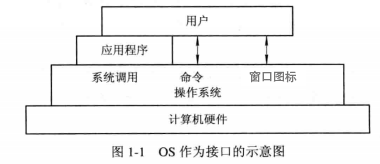
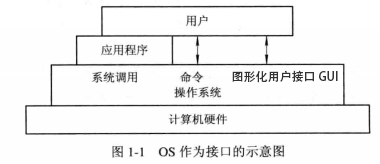
计算机

Changed region(s): [[0.6079, 0.4268, 0.8974, 0.5183]]

diff --git a/articles/计算机/七、操作系统接口.md b/articles/计算机/七、操作系统接口.md
@@ -1,10 +1,12 @@
-# 八、操作系统接口
+# 七、操作系统接口
 
 [[_TOC_]]
 
 ## 1. 操作系统接口
 
-操作系统就是用户与计算机硬件之间的接口
+操作系统作为计算机系统资源的管理者，对计算机系统的所有硬件和软件资源进行统一的管理和操纵，无论是操作系统内的软件，还是应用程序，凡是涉及到系统资源的有关操作，都必须向操作系统提出服务请求
+
+操作系统提供了三类接口，供用户和应用程序更方便地使用计算机，操作计算机系统的各种资源
 
 ### (1) 系统调用 ( 应用程序 )
 
@@ -20,14 +22,106 @@
 
 用户在终端或控制台键入一条命令后，命令解释程序立即对该命令加以解释执行，完成指定功能后又返回到终端或控制台，等待用户键入下一条命令，这样用户便可以通过先后键入不同命令的方式控制应用程序的执行
 
-### (3) 窗口图标 ( 用户 )
+### (3) 图形化用户接口 GUI ( 用户 )
 
-由于命令不便于用户记忆和使用，因此诞生了图形化的操作界面，即窗口图标
+由于命令不便于用户记忆和使用，因此诞生了图形化用户接口 GUI
 
-窗口图标采用了图形化的操作界面，用容易识别的各种图标来表示各项应用程序和文件，用户可通过鼠标点击等方式来快捷方便地完成对应用程序和文件的操作
+GUI 采用了图形化的操作界面，将窗口、图标、菜单、鼠标和面向对象技术集成到一起，引入形象的各种图标，将操作系统的各项功能、各种应用程序、各种文件直观逼真的表示出来，形成一个图文并茂的视窗操作环境
+
+有了 GUI，可以直接在系统桌面上显示各种常用图标，每个图标对应一个应用程序，用户只需双击图标就可以启动应用程序 ( 无需键入命令 )，用户还可以通过选择窗口、菜单、对话框、滚动条，完成对应用程序的各种控制和操作
 
 ![用户与计算机硬件之间的接口](../../images/计算机/操作系统/用户与计算机硬件之间的接口.png)
 
-## 2. 
+## 2. 命令
 
-①②③④⑤⑥⑦⑧⑨⑩
+### (1) 命令语言
+
+命令由一组命令动词和参数组成，具有规定的词法、语法、语义、表达形式，用户在终端键盘上以`命令行`的形式输入并提交给操作系统
+
+命令语言就是以命令为基本单位，指示操作系统完成特定的功能，诸多命令组成了命令集，完整的命令集包含了操作系统提供给用户使用的全部功能
+
+#### ① 命令行形式
+
+命令行形式以`行`为单位，输入和显示不同的命令，以`回车符`作为一个命令的结束标记
+
+命令行方式采用`间断式的串行执行方式`，前一个命令执行结束并且操作系统发出新的命令输入提示符，用户才能输入下一个命令
+
+#### ② 批命令形式
+
+实际使用过程中，经常会遇到对多条命令的连续使用，对若干命令的重复使用，对不同命令选择性使用的情况，因此操作系统都支持批命令形式
+
+批命令形式允许用户预先把一系列的命令组织在`批命令文件 .bat` 中，实现一次建立，多次执行，既节省了时间，减少了出错概率，又方便了用户
+
+## 3. Shell 命令语言
+
+### (1) Shell 的定义
+
+Linux 系统中的 Shell 是命令语言、命令解释程序、程序设计语言的统称
+
+**① 作为命令语言**：Shell 拥有自己的 Shell 命令集，可以为用户提供操作系统接口，Shell 提供了多种不同形式的命令，并且`允许一行有多条命令`
+
+**② 作为命令解释程序**：Shell 可以对输入的命令解释执行
+
+**③ 作为程序设计语言**：Shell 拥有绝大多数高级语言中能见到的程序元素，例如变量、数组、函数、程序控制结构等等
+
+### (2) Shell 命令语言
+
+#### ① 进入与退出系统
+
+#### ② 系统询问命令
+
+```javascript
+who  //询问当前用户
+date //询问当前日期时间
+pwd  //询问目录路径名
+```
+
+#### ③ 文件操作命令
+
+```javascript
+cp  //复制指定文件
+rm  //删除指定文件
+mv  //重命名指定文件
+cat //显示指定文件内容
+```
+
+#### ④ 文件目录操作命令
+
+```javascript
+md //新建目录
+rd //删除指定目录
+cd //进入指定目录
+```
+
+#### ⑤ 重定向命令
+
+```javascript
+< //输入重定向
+> //输入重定向
+```
+
+#### ⑥ 管道命令
+
+```javascript
+| //前一条命令的输出作为后一条命令的输入
+```
+
+#### ⑦ 通信命令
+
+```javascript
+write //对话通信,使当前用户与系统中的其他用户进行联机通信
+mesg  //允许或拒绝接收消息,n表示拒绝接收消息,y表示允许接收消息
+mail  //信箱通信
+```
+
+#### ⑧ 后台命令
+
+```javascript
+& //当前命令放在后台执行
+```
+
+### (3) Shell 命令解释程序
+
+Shell 是操作系统的最外层，也称为`外壳`，是用户及应用程序和操作系统的接口，Shell 对从标准输入和文件中读入的命令进行解释执行
+
+![Shell执行过程](../../images/计算机/操作系统接口/Shell执行过程.png)

diff --git a/README.md b/README.md
@@ -15,6 +15,8 @@ JS 系列之函数式编程 进行中......
 
 JS 系列之设计模式 进行中......
 
+计算机系列 进行中......
+
 计算机网络系列之 TCP/IP 协议群已完结
 
 计算机网络系列之 HTTP 协议已完结
@@ -61,7 +63,7 @@ JS 系列之设计模式 进行中......
 1. [语法](https://github.com/yuyuyuzhang/Blog/blob/master/articles/JS/ES5/%E4%B8%80%E3%80%81%E8%AF%AD%E6%B3%95.md)
 2. [错误处理机制](https://github.com/yuyuyuzhang/Blog/blob/master/articles/JS/ES5/%E4%BA%8C%E3%80%81%E9%94%99%E8%AF%AF%E5%A4%84%E7%90%86%E6%9C%BA%E5%88%B6.md)
 3. [数据类型](https://github.com/yuyuyuzhang/Blog/blob/master/articles/JS/ES5/%E4%B8%89%E3%80%81%E6%95%B0%E6%8D%AE%E7%B1%BB%E5%9E%8B.md)
-<!-- 4. [内存](https://github.com/yuyuyuzhang/Blog/blob/master/articles/JS/ES5/%E5%9B%9B%E3%80%81%E5%86%85%E5%AD%98.md) -->
+4. [内存](https://github.com/yuyuyuzhang/Blog/blob/master/articles/JS/ES5/%E5%9B%9B%E3%80%81%E5%86%85%E5%AD%98.md)
 5. [变量](https://github.com/yuyuyuzhang/Blog/blob/master/articles/JS/ES5/%E4%BA%94%E3%80%81%E5%8F%98%E9%87%8F.md)
 6. [函数](https://github.com/yuyuyuzhang/Blog/blob/master/articles/JS/ES5/%E5%85%AD%E3%80%81%E5%87%BD%E6%95%B0.md)
 7. [正则](https://github.com/yuyuyuzhang/Blog/blob/master/articles/JS/ES5/%E4%B8%83%E3%80%81%E6%AD%A3%E5%88%99.md)
@@ -73,13 +75,13 @@ JS 系列之设计模式 进行中......
 1. [数据类型](https://github.com/yuyuyuzhang/Blog/blob/master/articles/JS/ES6/%E4%B8%80%E3%80%81%E6%95%B0%E6%8D%AE%E7%B1%BB%E5%9E%8B.md)
 2. [解构赋值](https://github.com/yuyuyuzhang/Blog/blob/master/articles/JS/ES6/%E4%BA%8C%E3%80%81%E8%A7%A3%E6%9E%84%E8%B5%8B%E5%80%BC.md)
 3. [遍历器](https://github.com/yuyuyuzhang/Blog/blob/master/articles/JS/ES6/%E4%B8%89%E3%80%81%E9%81%8D%E5%8E%86%E5%99%A8.md)
-<!-- 4. [内存](https://github.com/yuyuyuzhang/Blog/blob/master/articles/JS/ES6/%E5%9B%9B%E3%80%81%E5%86%85%E5%AD%98.md) -->
+4. [内存](https://github.com/yuyuyuzhang/Blog/blob/master/articles/JS/ES6/%E5%9B%9B%E3%80%81%E5%86%85%E5%AD%98.md)
 5. [变量](https://github.com/yuyuyuzhang/Blog/blob/master/articles/JS/ES6/%E4%BA%94%E3%80%81%E5%8F%98%E9%87%8F.md)
 6. [函数](https://github.com/yuyuyuzhang/Blog/blob/master/articles/JS/ES6/%E5%85%AD%E3%80%81%E5%87%BD%E6%95%B0.md)
 7. [正则](https://github.com/yuyuyuzhang/Blog/blob/master/articles/JS/ES6/%E4%B8%83%E3%80%81%E6%AD%A3%E5%88%99.md)
 8. [元编程](https://github.com/yuyuyuzhang/Blog/blob/master/articles/JS/ES6/%E5%85%AB%E3%80%81%E5%85%83%E7%BC%96%E7%A8%8B.md)
 9. [类](https://github.com/yuyuyuzhang/Blog/blob/master/articles/JS/ES6/%E4%B9%9D%E3%80%81%E7%B1%BB.md)
-10. [异步](https://github.com/yuyuyuzhang/Blog/blob/master/articles/JS/ES6/%E5%8D%81%E3%80%81%E5%BC%82%E6%AD%A5.md)
+<!-- 10. [异步](https://github.com/yuyuyuzhang/Blog/blob/master/articles/JS/ES6/%E5%8D%81%E3%80%81%E5%BC%82%E6%AD%A5.md) -->
 11. [模块](https://github.com/yuyuyuzhang/Blog/blob/master/articles/JS/ES6/%E5%8D%81%E4%B8%80%E3%80%81%E6%A8%A1%E5%9D%97.md)
 
 ## JS 系列之函数式编程
@@ -89,6 +91,18 @@ JS 系列之设计模式 进行中......
 3. [递归](https://github.com/yuyuyuzhang/Blog/blob/master/articles/JS/%E5%87%BD%E6%95%B0/%E4%B8%89%E3%80%81%E9%80%92%E5%BD%92.md)
 
 ## JS 系列之设计模式
+
+## 计算机系列
+
+1. [计算机组成]()
+2. [操作系统]()
+3. [CPU 管理]()
+4. [内存管理]()
+5. [IO 设备管理]()
+6. [文件管理]()
+7. [操作系统接口]()
+8. [应用程序]()
+9. [服务器]()
 
 ## 计算机网络系列之 TCP/IP 协议群
 
@@ -145,11 +159,6 @@ JS 系列之设计模式 进行中......
 5. [WebSocket](https://github.com/yuyuyuzhang/Blog/blob/master/articles/%E6%B5%8F%E8%A7%88%E5%99%A8/%E6%B5%8F%E8%A7%88%E5%99%A8%E9%80%9A%E4%BF%A1/%E4%BA%94%E3%80%81WebSocket.md)
 <!-- 6. [Nginx 代理服务器]() -->
 <!-- 7. [WebRTC]() -->
-
-## 服务器系列之计算机
-
-<!-- 1. [计算机组成](https://github.com/yuyuyuzhang/Blog/blob/master/articles/%E6%9C%8D%E5%8A%A1%E5%99%A8/%E8%AE%A1%E7%AE%97%E6%9C%BA/%E4%B8%80%E3%80%81%E8%AE%A1%E7%AE%97%E6%9C%BA%E7%BB%84%E6%88%90.md)
-2. [服务器](https://github.com/yuyuyuzhang/Blog/blob/master/articles/%E6%9C%8D%E5%8A%A1%E5%99%A8/%E8%AE%A1%E7%AE%97%E6%9C%BA/%E4%BA%8C%E3%80%81%E6%9C%8D%E5%8A%A1%E5%99%A8.md) -->
 
 ## 服务器系列之 node
 

diff --git a/articles/计算机/五、IO 设备管理.md b/articles/计算机/五、IO 设备管理.md
@@ -1,4 +1,4 @@
-# 六、IO 设备管理
+# 五、IO 设备管理
 
 [[_TOC_]]
 
@@ -139,11 +139,13 @@
 
 用户在终端或控制台键入一条命令后，命令解释程序立即对该命令加以解释执行，完成指定功能后又返回到终端或控制台，等待用户键入下一条命令，这样用户便可以通过先后键入不同命令的方式控制应用程序的执行
 
-#### ③ 窗口图标 ( 用户 )
+#### ③ 图形化用户接口 GUI ( 用户 )
 
-由于命令不便于用户记忆和使用，因此诞生了图形化的操作界面，即窗口图标
+由于命令不便于用户记忆和使用，因此诞生了图形化用户接口 GUI
 
-窗口图标采用了图形化的操作界面，用容易识别的各种图标来表示各项应用程序和文件，用户可通过鼠标点击等方式来快捷方便地完成对应用程序和文件的操作
+GUI 采用了图形化的操作界面，将窗口、图标、菜单、鼠标和面向对象技术集成到一起，引入形象的各种图标，将操作系统的各项功能、各种应用程序、各种文件直观逼真的表示出来，形成一个图文并茂的视窗操作环境
+
+有了 GUI，可以直接在系统桌面上显示各种常用图标，每个图标对应一个应用程序，用户只需双击图标就可以启动应用程序 ( 无需键入命令 )，用户还可以通过选择窗口、菜单、对话框、滚动条，完成对应用程序的各种控制和操作
 
 ![用户与计算机硬件之间的接口](../../images/计算机/操作系统/用户与计算机硬件之间的接口.png)
 

diff --git a/articles/计算机/二、操作系统.md b/articles/计算机/二、操作系统.md
@@ -56,11 +56,13 @@
 
 用户在终端或控制台键入一条命令后，命令解释程序立即对该命令加以解释执行，完成指定功能后又返回到终端或控制台，等待用户键入下一条命令，这样用户便可以通过先后键入不同命令的方式控制应用程序的执行
 
-#### ③ 窗口图标 ( 用户 )
+#### ③ 图形化用户接口 GUI ( 用户 )
 
-由于命令不便于用户记忆和使用，因此诞生了图形化的操作界面，即窗口图标
+由于命令不便于用户记忆和使用，因此诞生了图形化用户接口 GUI
 
-窗口图标采用了图形化的操作界面，用容易识别的各种图标来表示各项应用程序和文件，用户可通过鼠标点击等方式来快捷方便地完成对应用程序和文件的操作
+GUI 采用了图形化的操作界面，将窗口、图标、菜单、鼠标和面向对象技术集成到一起，引入形象的各种图标，将操作系统的各项功能、各种应用程序、各种文件直观逼真的表示出来，形成一个图文并茂的视窗操作环境
+
+有了 GUI，可以直接在系统桌面上显示各种常用图标，每个图标对应一个应用程序，用户只需双击图标就可以启动应用程序 ( 无需键入命令 )，用户还可以通过选择窗口、菜单、对话框、滚动条，完成对应用程序的各种控制和操作
 
 ![用户与计算机硬件之间的接口](../../images/计算机/操作系统/用户与计算机硬件之间的接口.png)
 

diff --git a/articles/计算机/八、应用程序.md b/articles/计算机/八、应用程序.md
@@ -1,4 +1,4 @@
-# 九、应用程序
+# 八、应用程序
 
 [[_TOC_]]
 

diff --git a/articles/计算机/六、文件管理.md b/articles/计算机/六、文件管理.md
@@ -1,4 +1,4 @@
-# 七、文件管理
+# 六、文件管理
 
 [[_TOC_]]
 

diff --git a/articles/计算机/九、服务器.md b/articles/计算机/九、服务器.md
@@ -1,4 +1,4 @@
-# 十、服务器
+# 九、服务器
 
 [[_TOC_]]
 
